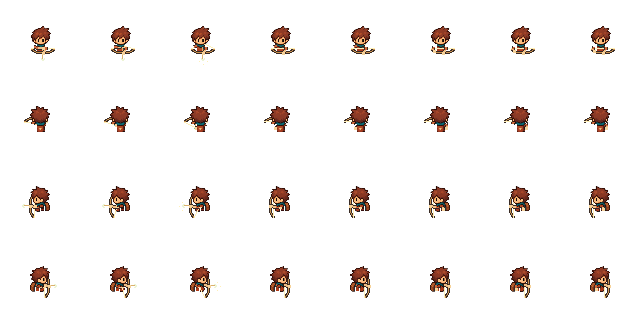
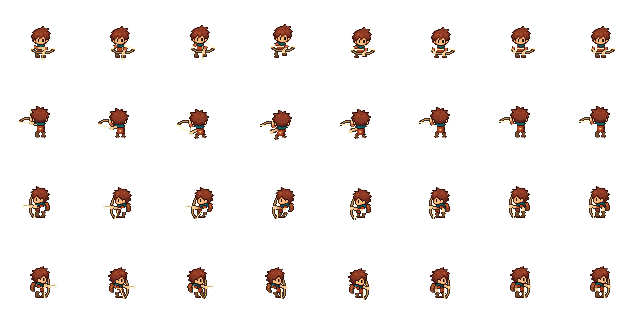
feat: animate Flecha Certeira with braced draw and body recoil

diff --git a/docs/decisions/SKILLS1_V1.md b/docs/decisions/SKILLS1_V1.md
@@ -77,3 +77,5 @@ luminosa ligada a lamina; 734 verificacoes sem falhas, margens e identidade conf
 Etapa B V2: Racha-Chao levanta tronco/arma e flexiona quadril/joelhos no impacto. 743 checks sem falhas; corrigida ligacao visual entre quadril e pes nas poses elevadas.
 
 Etapa C V2: Impulso Perfurante com recuo, passada e inclinacao do tronco. Margem transparente 112px para nao cortar a ponta; escala/ancora fisica preservadas. 752 checks sem falhas.
+
+Etapa D V2: Flecha Certeira com apoio, puxada maior e recuo corporal; origem visual acompanha arco na soltura, sem mudar fisica. 761 checks sem falhas. Movimento avaliado pela amplitude da acao completa, incluindo recuo/recuperacao.
